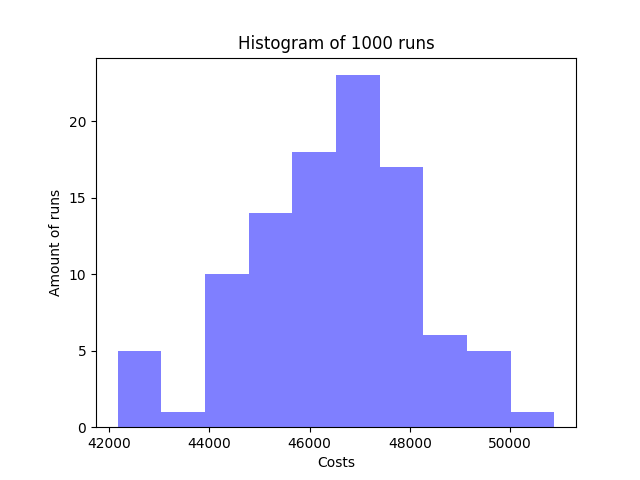
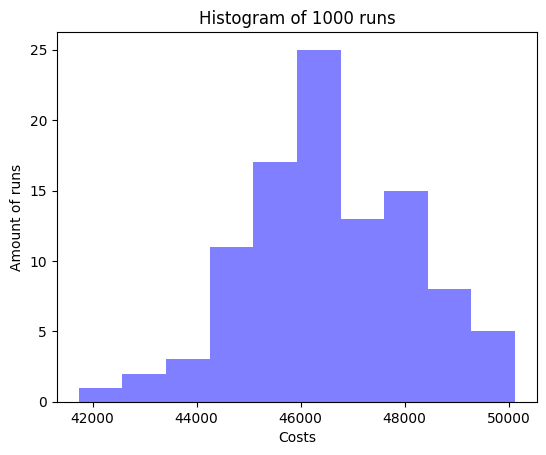
Legende buiten plot toegevoegd
Legende buiten plot toegevoegd door plot te krimpen

Changed region(s): [[0.0, 0.0, 0.9963, 0.9846], [0.0623, 0.0923, 0.0934, 0.1231]]

diff --git a/code/visualisation/grid.py b/code/visualisation/grid.py
@@ -15,7 +15,7 @@ def plot_houses(houses):
         x = houses[i].x
         y = houses[i].y
         color = color_house(houses[i])
-        plt.plot(int(x), int(y), marker=".", color=color, label="house")
+        plt.plot(int(x), int(y), marker=".", color=color)
 
 # Gives color to the house on the grid
 def color_house(house):
@@ -37,7 +37,8 @@ def plot_batteries(batteries):
         x = batteries[i].x
         y = batteries[i].y
         color = color_battery(batteries[i])
-        plt.plot(int(x), int(y), marker="D", color=color, label="battery")
+        plt.plot(int(x), int(y), marker="D", color=color, label=color)
+    plt.legend()
     
 
 #  Gives color to the battery on the grid
@@ -109,10 +110,17 @@ def plot_grid(houses, batteries, cables):
     plot_batteries(batteries)
     axes_numbers()
     draw_cables(cables)
+    #nog wat netter maken dit
+    # Shrink current axis by 20%
+    ax = plt.subplot()
+    # Shrink current axis by 20%
+    box = ax.get_position()
+    ax.set_position([box.x0, box.y0, box.width * 0.8, box.height])
+    # Put a legend to the right of the current axis
+    ax.legend(loc='center left', bbox_to_anchor=(1, 0.5))
     render_grid()
-    plt.savefig('grid.png')
+    plt.savefig('grid.png', bbox_inches='tight')
     #plt.show()
-
 
 """
 Links:

diff --git a/code/visualisation/histogram.py b/code/visualisation/histogram.py
@@ -15,5 +15,5 @@ def plot_histogram(scores, average_score):
 
     # Tweak spacing to prevent clipping of ylabel
     plt.subplots_adjust(left=0.15)
-    plt.savefig('histogram.png')
+    plt.savefig('histogram.png', bbox_inches='tight')
     #plt.show()
